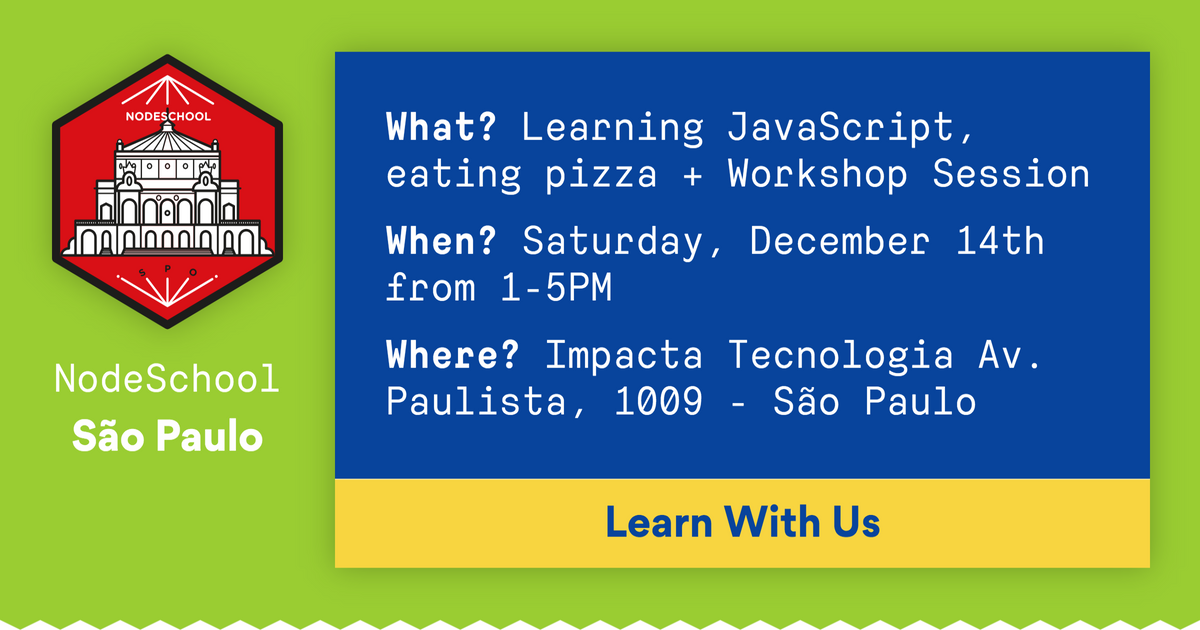
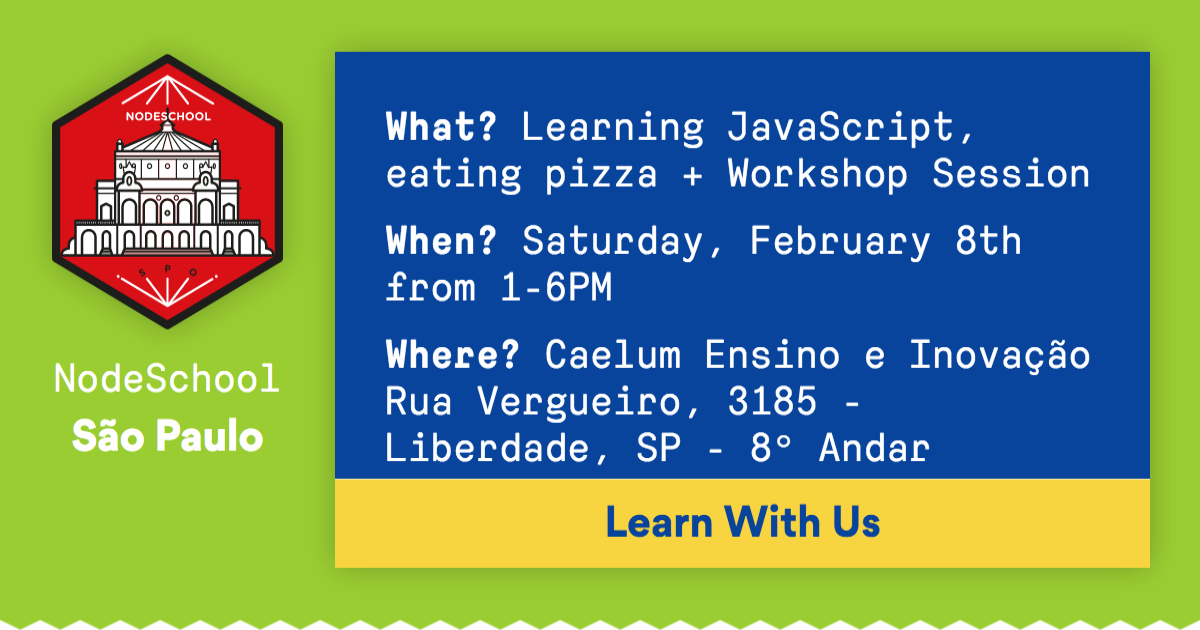
Update social data

diff --git a/docs/social.html b/docs/social.html
@@ -23,7 +23,7 @@
         <div class="next-event__description">
           <p><strong>What?</strong> Learning JavaScript, eating pizza + Workshop Session</p>
           <p><strong>When?</strong> Saturday, February 8th from 1-6PM</p>
-          <p><strong>Where?</strong> Caelum Ensino e Inovação Rua Vergueiro, 3185 - Liberdade, SP - 8º Andar Sala 87</p>
+          <p><strong>Where?</strong> Caelum Ensino e Inovação Rua Vergueiro, 3185 - Liberdade, SP - 8º Andar</p>
         </div>
         <div class="next-event__actions">
           <button class="next-event__action__learn next-event__action social__button button">Learn With Us</button>
